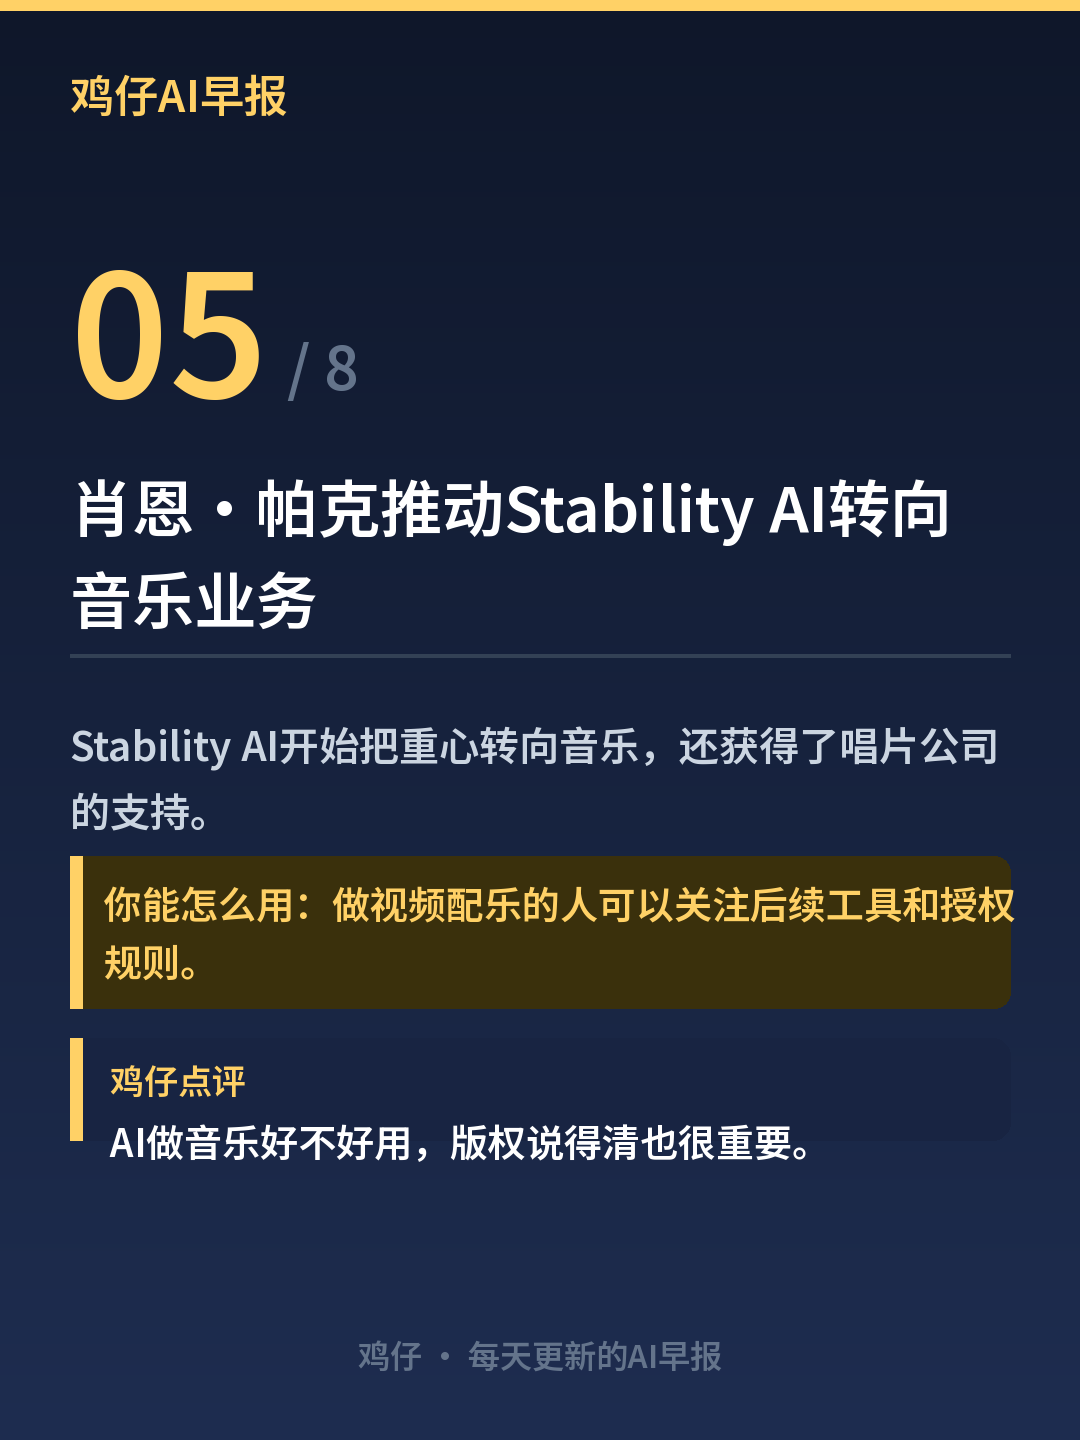
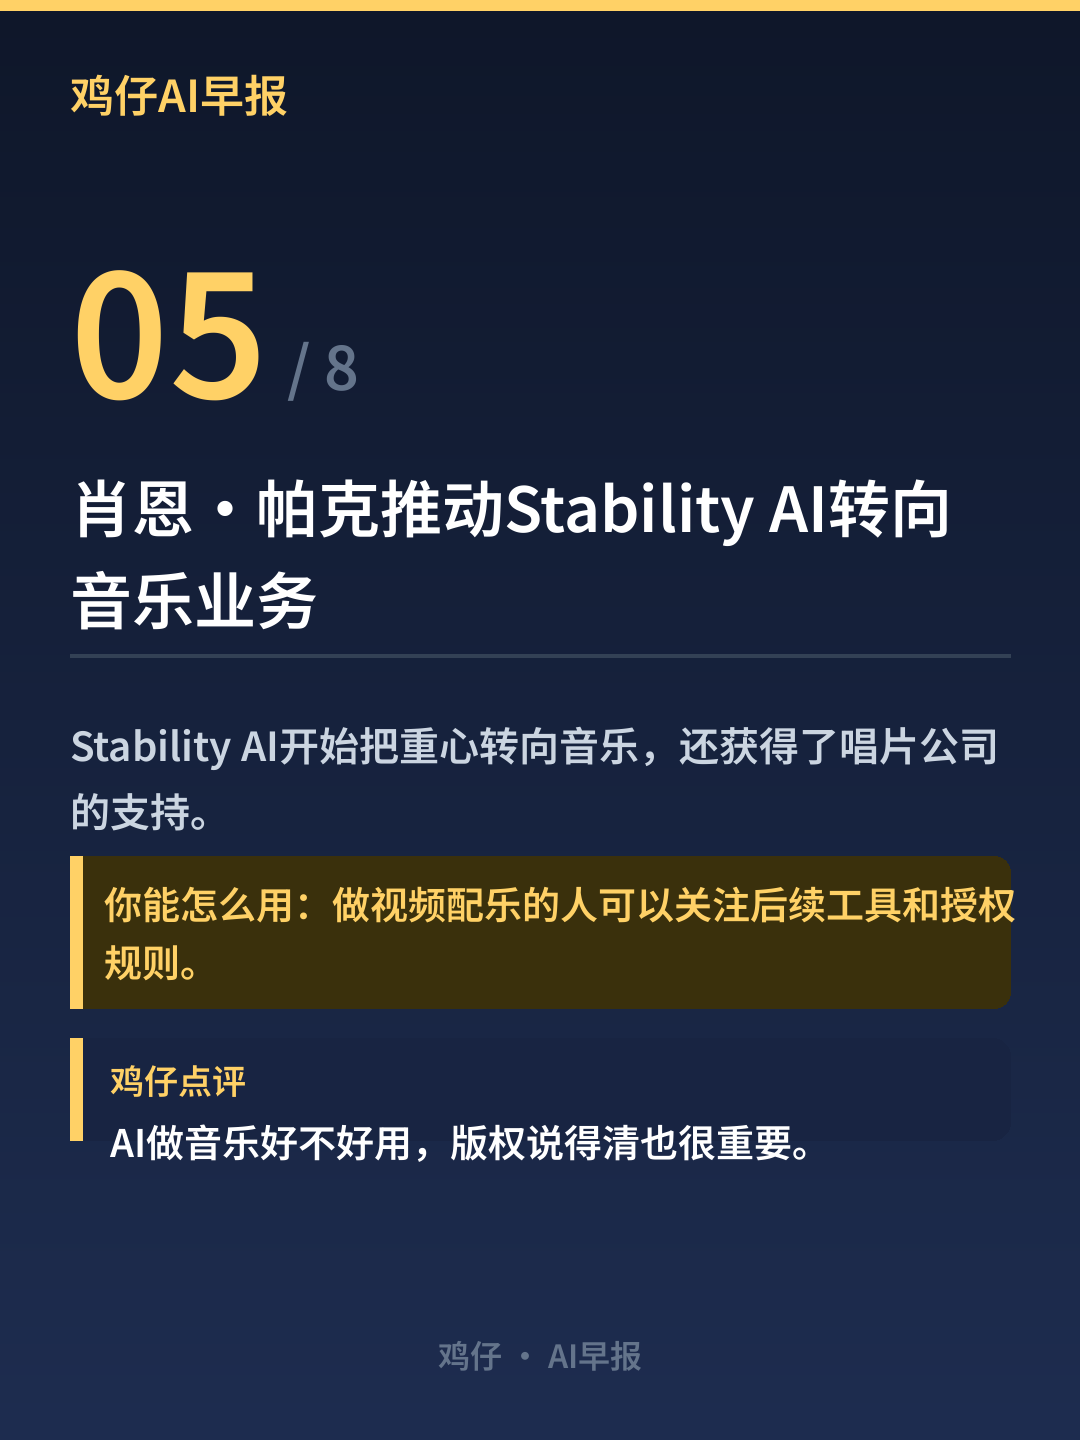
10-03 早报：去掉卡片时间文案，替换第7条旧闻为路透社加州传票新闻

diff --git a/scripts/generate_xhs_cards.py b/scripts/generate_xhs_cards.py
@@ -94,7 +94,7 @@ def _header(d, date_str):
     d.text((70, 125), date_str, font=f2, fill=C_DIM)
 
 
-def _footer(d, text='🐤 鸡仔 · 每天更新的AI早报'):
+def _footer(d, text='🐤 鸡仔 · AI早报'):
     # PIL 字体无 emoji，用文字替代
     f = _font(32)
     label = text.replace('🐤 ', '')
@@ -140,7 +140,7 @@ def draw_cover(picks, path, big_title='今日AI早报', footer_text=None,
         y += 50
     f_tip = _font(38)
     _centered(d, y + 40, tip_text, f_tip, C_DIM)
-    _footer(d, footer_text or '🐤 鸡仔 · 每天更新的AI早报')
+    _footer(d, footer_text or '🐤 鸡仔 · AI早报')
     img.save(path)
 
 
@@ -221,7 +221,7 @@ def draw_end(jinju, question, path, fav_text='收藏这篇，持续更新', foot
         y += 76
     f_fav = _font(40)
     _centered(d, y + 40, fav_text, f_fav, C_DIM)
-    _footer(d, footer_text or '🐤 鸡仔 · 每天更新的AI早报')
+    _footer(d, footer_text or '🐤 鸡仔 · AI早报')
     img.save(path)
 
 
